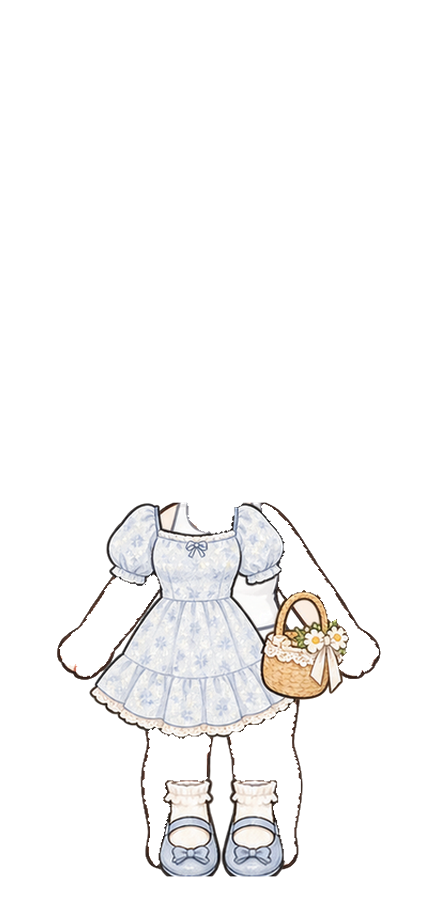
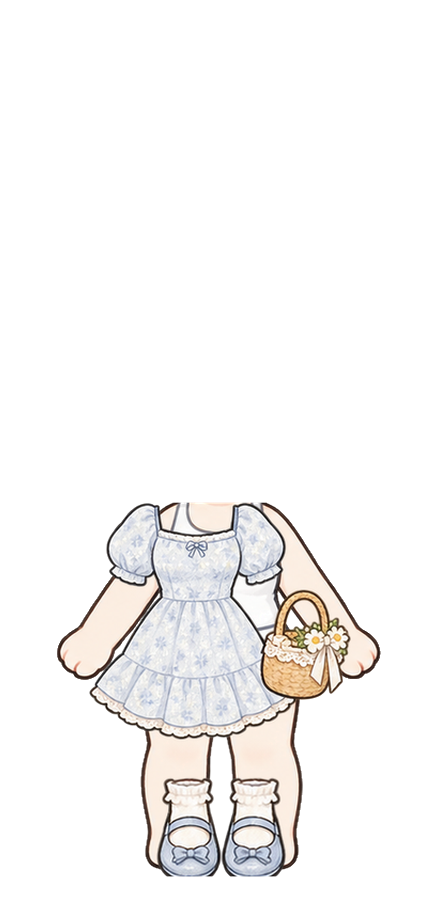
fix: 해녀 구버전 의상 29종 전부 피부 제거 단계 없이 원본 그대로 사용
사용자 지시("옷을 모든 부분을 절대 투명하게 만들지마") — remove_skin()이 원화에
같이 그려진 손/팔/다리를 지워 MASTER 몸의 손/팔/다리가 대신 비치게 하던 단계를
완전히 제거했다. 옷감-피부 색이 겹치는 원화에서 옷감까지 지워지던 사고
(outfit_09/dress_05)도 이 단계 자체에서 나온 것이었다.

이제 29종 전부 원본 픽셀(색·알파)을 그대로 스케일·목선 정렬만 해서 쓴다 — 리사이즈
경계의 반투명 페더만 다듬을 뿐 옷감 내부는 절대 지워지지 않는다. 그 결과 각 옷은
원화에 그려진 자기 손/팔/다리(고정 피부톤)를 그대로 입고 나온다.

Claude-Session: https://claude.ai/code/session_01XZf4WvQ5AwVrtd1cUDQi66

diff --git a/scripts/asset-tools/build_haenyeo_legacy_outfits.py b/scripts/asset-tools/build_haenyeo_legacy_outfits.py
@@ -12,12 +12,20 @@
 생략되고 이너웨어(속옷)만 보이는 채로 렌더링돼왔다(모든 화면 — HaenyeoMasterSprite가
 kind="haenyeo"의 유일한 렌더 경로라서 예외 없음).
 
-이 스크립트는 build_haenyeo_master_canvas.py의 remove_skin()을 그대로 재사용해 예전
-outfit_full 캔버스(420x512, alpha 상단=NECK_Y=140 — 20+9종 전부 실측 확인)에서 새
-MASTER 캔버스(441x906, NECK_Y=503, CENTER_X=219.5)로 등방(가로세로 동일 비율) 스케일 +
-목선 정렬 이동만 적용한다(신규 14종 파이프라인과 달리 레이어별 보정 없음 — 여기도 없음).
-산출물 파일명은 원래 번호(haenyeo_outfit_NN.png/haenyeo_dress_NN.png)를 그대로 써서
-기존 SKU/프리셋 키가 별도 수정 없이 그대로 유효해지도록 한다.
+이 스크립트는 예전 outfit_full 캔버스(420x512, alpha 상단=NECK_Y=140 — 20+9종 전부
+실측 확인)에서 새 MASTER 캔버스(441x906, NECK_Y=503, CENTER_X=219.5)로 등방(가로세로
+동일 비율) 스케일 + 목선 정렬 이동만 적용한다(신규 14종 파이프라인과 달리 레이어별 보정
+없음 — 여기도 없음). 산출물 파일명은 원래 번호(haenyeo_outfit_NN.png/haenyeo_dress_NN.png)
+를 그대로 써서 기존 SKU/프리셋 키가 별도 수정 없이 그대로 유효해지도록 한다.
+
+2026-09-19 사용자 지시로 remove_skin(원화에 같이 그려진 손/팔/다리 피부를 지워 MASTER
+몸의 손/팔/다리가 대신 비치게 하던 단계) 완전히 제거함 — "옷을 모든 부분을 절대 투명하게
+만들지마"(원본 색감 그대로, 일부라도 지우지 말라는 요청). 옷감-피부 색이 겹치는 원화에서
+옷감까지 지워지는 사고(outfit_09/dress_05)가 이 단계 자체에서 나왔던 것도 있어, 이제
+원본 픽셀을 그대로(알파도 원본 그대로, 리사이즈 경계만 sharpen) 스케일·이동만 해서 쓴다.
+그 결과 이 29종은 자기 몸에 원래 그려져 있던 손/팔/다리(고정 피부톤)를 그대로 입고
+나온다 — MASTER 몸 쪽 손/팔/다리는 이 옷 밑에 가려진다(피부톤 슬라이더가 이 부위엔 안
+먹지만, 같은 원화 시트에서 나온 색이라 눈에 띄게 안 맞지는 않는다).
 
 사용법:
     python3 scripts/asset-tools/build_haenyeo_legacy_outfits.py
@@ -27,7 +35,6 @@ import os
 
 import numpy as np
 from PIL import Image
-from scipy import ndimage
 
 ROOT = os.path.abspath(os.path.join(os.path.dirname(__file__), "..", ".."))
 CHAR_DIR = os.path.join(ROOT, "public", "images", "character")
@@ -48,44 +55,6 @@ TARGET_SPAN = SOLE_Y - NECK_Y  # 373
 OLD_CANVAS_W = 420
 OLD_NECK_Y = 140
 
-SKIN_REF = np.array([253, 225, 207])
-SKIN_DIST_THRESHOLD = 30
-SKIN_MIN_COMPONENT_SIZE = 400
-SKIN_DILATE_ITER = 2
-
-
-# 2026-09-18: outfit_09(잠옷)·dress_05(분홍 원피스)는 색만으로 피부/옷감을 구분할 수
-# 없었다(옷감 HSV hue 5~9도가 이 두 원화 자체의 피부색 hue와 채도·명도까지 겹침) — 결과물
-# 다리/몸통에 분홍 얼룩이 남는 진짜 깨진 그림이 나왔다(한때 HAENYEO_OUTFIT_INVALID_KEYS로
-# 되돌렸었음). 두 원화 다 롱팬츠/롱스커트라 원래 중앙 열(가슴~다리)에 노출된 진짜 피부가
-# 전혀 없다는 점(진짜 피부는 좌우로 뻗은 팔/손뿐)을 이용해, 가운데 열을 스킨 제거 후보에서
-# 통째로 빼는 것으로 색 충돌 없이 해결했다 — 반바지/짧은 치마처럼 중앙 하단에 실제 맨다리가
-# 있는 옷에는 이 예외를 쓰면 안 된다(진짜 다리 피부가 안 지워져 MASTER 다리와 겹쳐 보임).
-NO_CENTER_LEG_EXPOSURE_KEYS = {"haenyeo_outfit_09", "haenyeo_dress_05"}
-CENTER_EXCLUDE_X = (140, 280)
-
-
-def remove_skin(im: Image.Image, exclude_center: bool = False):
-    arr = np.array(im.convert("RGBA")).astype(int)
-    r, g, b, a = arr[:, :, 0], arr[:, :, 1], arr[:, :, 2], arr[:, :, 3]
-    dist = np.sqrt((r - SKIN_REF[0]) ** 2 + (g - SKIN_REF[1]) ** 2 + (b - SKIN_REF[2]) ** 2)
-    candidate = (a > 10) & (dist < SKIN_DIST_THRESHOLD)
-    if exclude_center:
-        candidate[:, CENTER_EXCLUDE_X[0]:CENTER_EXCLUDE_X[1]] = False
-
-    labeled, num = ndimage.label(candidate)
-    if num > 0:
-        sizes = ndimage.sum(candidate, labeled, range(1, num + 1))
-        keep_labels = [i + 1 for i, s in enumerate(sizes) if s > SKIN_MIN_COMPONENT_SIZE]
-        skin_mask = np.isin(labeled, keep_labels)
-    else:
-        skin_mask = candidate
-
-    skin_mask = ndimage.binary_dilation(skin_mask, iterations=SKIN_DILATE_ITER)
-    out = arr.copy()
-    out[skin_mask, 3] = 0
-    return Image.fromarray(out.astype(np.uint8), "RGBA"), int(skin_mask.sum())
-
 
 def sharpen_alpha(im: Image.Image, threshold: int = 90) -> Image.Image:
     arr = np.array(im).astype(np.float32)
@@ -102,11 +71,10 @@ def build_one(name: str):
         print(f"  {name}: [수동 확인] 예상 밖 캔버스 폭 {im.size} != {OLD_CANVAS_W} — 건너뜀")
         return None
 
-    no_skin, skin_px = remove_skin(im, exclude_center=name in NO_CENTER_LEG_EXPOSURE_KEYS)
-    alpha = np.array(no_skin)[:, :, 3]
+    alpha = np.array(im)[:, :, 3]
     ys = np.where(alpha.max(axis=1) > 20)[0]
     if len(ys) == 0:
-        print(f"  {name}: [수동 확인] 스킨 제거 후 알파가 전부 비어있음 — 건너뜀")
+        print(f"  {name}: [수동 확인] 알파가 전부 비어있음 — 건너뜀")
         return None
     sole_y = int(ys.max())
     old_span = sole_y - OLD_NECK_Y
@@ -117,7 +85,10 @@ def build_one(name: str):
     scale = TARGET_SPAN / old_span
     new_w = max(1, round(im.width * scale))
     new_h = max(1, round(im.height * scale))
-    resized = sharpen_alpha(no_skin.resize((new_w, new_h), Image.LANCZOS), threshold=40)
+    # 원본 픽셀(색·알파 전부)을 그대로 스케일만 한다 — sharpen_alpha는 리사이즈가 만드는
+    # 가장자리 반투명 페더만 다듬을 뿐, 이미 불투명한 옷감 내부는 threshold(40) 밑으로
+    # 내려가지 않으니 절대 지워지지 않는다.
+    resized = sharpen_alpha(im.resize((new_w, new_h), Image.LANCZOS), threshold=40)
 
     paste_x = round(CENTER_X - (OLD_CANVAS_W / 2) * scale)
     paste_y = round(NECK_Y - OLD_NECK_Y * scale)
@@ -127,7 +98,7 @@ def build_one(name: str):
 
     out_path = os.path.join(OUT_DIR, f"{name}.png")
     canvas.save(out_path)
-    print(f"  {name}: scale={scale:.4f} skin_px={skin_px} -> {os.path.relpath(out_path, ROOT)}")
+    print(f"  {name}: scale={scale:.4f} -> {os.path.relpath(out_path, ROOT)}")
     return out_path
 
 
